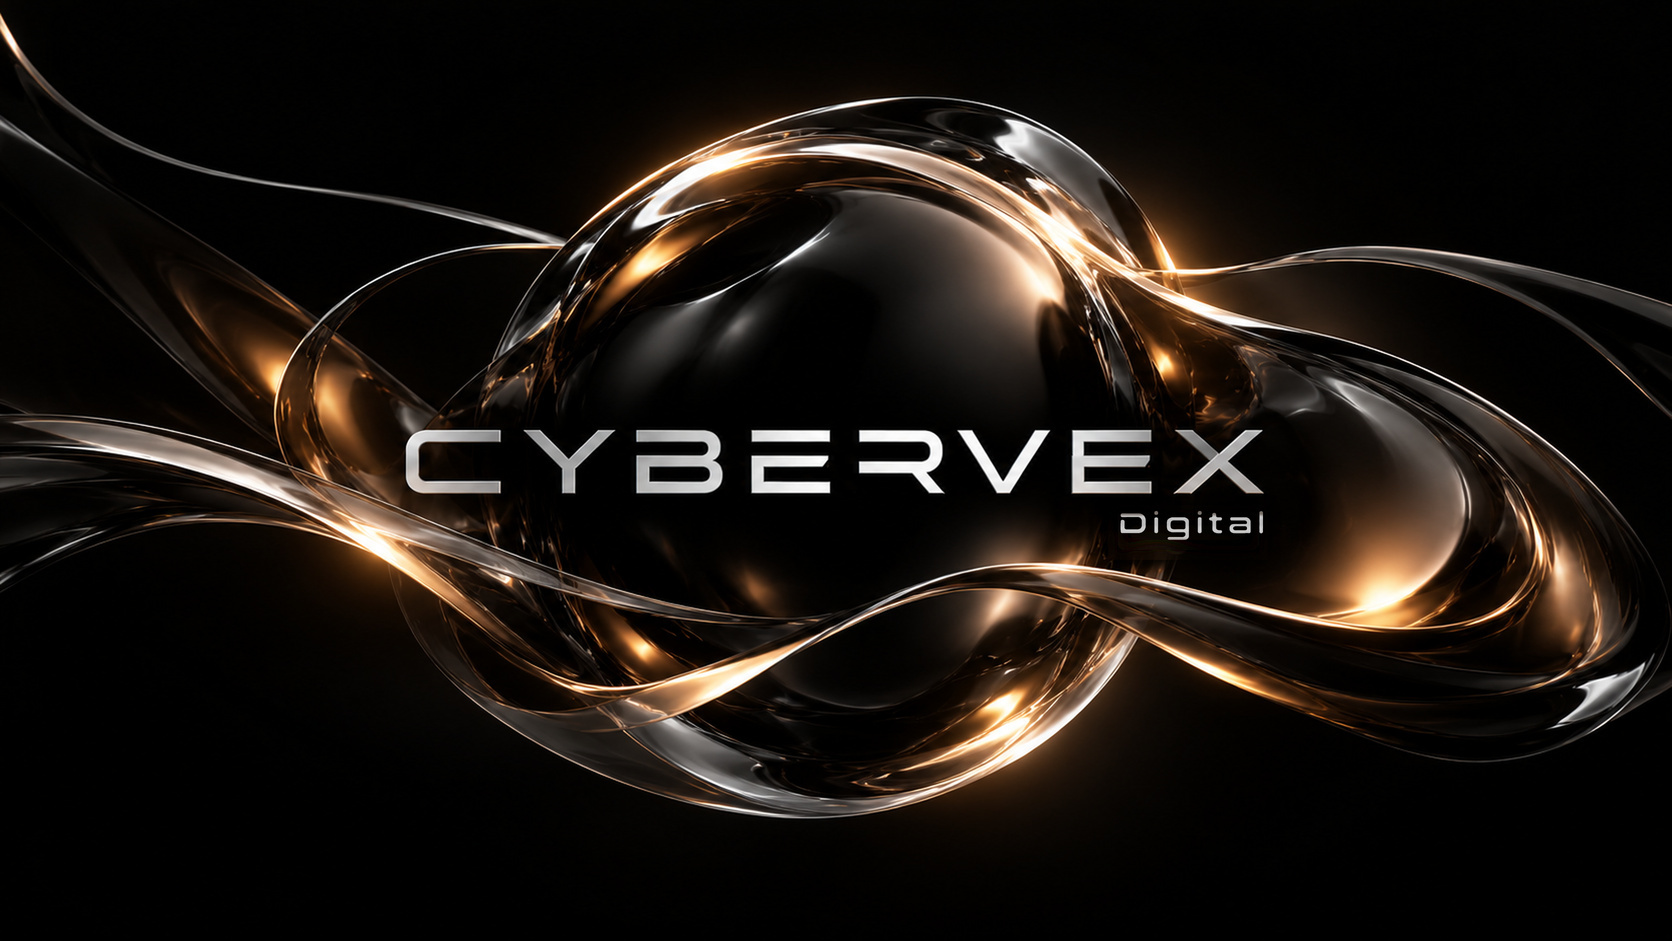
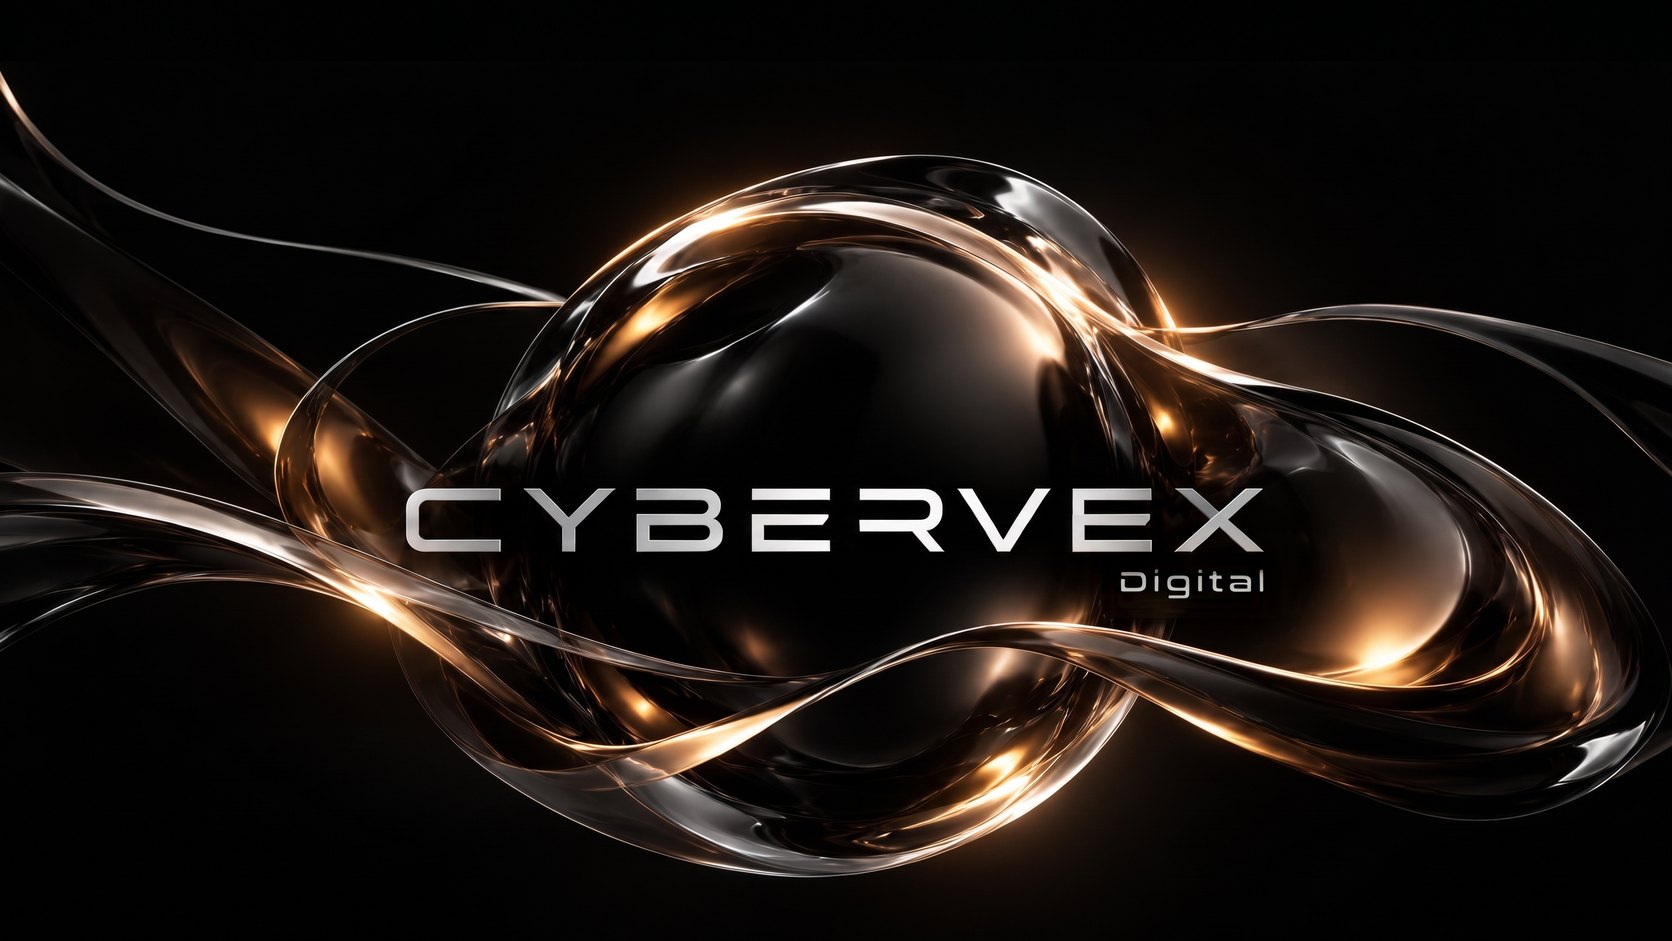
New hero artwork; desktop hero runs behind the navbar with room below

diff --git a/src/App.css b/src/App.css
@@ -561,12 +561,27 @@
 /* Desktops: same height as above, but the art always spans the full width. On wide or short
    screens (where black sides used to show) the image fills the box and is trimmed top and bottom. */
 @media (min-width: 769px) {
+  /* The art starts at the very top, behind the see-through navbar (the box grows upward by the
+     navbar's height), with a little extra room (40px) underneath so its bottom isn't cut */
+  .hero-section--fullscreen {
+    padding-top: 0;
+  }
+
+  .hero-fullscreen-frame {
+    max-height: calc(var(--hero-avail) + var(--nav-height) + 40px);
+  }
+
   .hero-art {
     width: 100cqw;
     aspect-ratio: auto;
-    height: calc(var(--hero-art-w) * 9 / 16);
+    height: calc(var(--hero-art-w) * 9 / 16 + var(--nav-height) + 40px);
     -webkit-mask-image: none;
     mask-image: none;
+  }
+
+  .hero-art .hero-fullscreen-img {
+    height: calc(var(--hero-art-w) * 9 / 16 + var(--nav-height));
+    transform: none;
   }
 }
 
@@ -575,8 +590,8 @@
   height: 100%;
   object-fit: cover;
   display: block;
-  /* Slight zoom into the orb; the art box clips the overflow */
-  transform: scale(1.06);
+  /* Slight zoom into the orb; the art box clips the overflow. Lifted so more of the bottom shows; the top strands still clear the navbar */
+  transform: translateY(-6%) scale(1.06);
 }
 
 

diff --git a/src/components/Hero.jsx b/src/components/Hero.jsx
@@ -10,10 +10,10 @@ export default function Hero() {
       <div className="hero-fullscreen-frame">
         {/* Artwork box: full width 16:9; the frame crops it evenly if it's taller than the screen */}
         <div className="hero-art">
-          {/* Original artwork with the brand "Digital" lettering; @2x is a clean 2x resample for large/HiDPI screens */}
+          {/* Original artwork with the brand "Digital" lettering; @2x is the full-resolution version for large/HiDPI screens */}
           <img
             src="/images/cybervex-hero.jpg"
-            srcSet="/images/cybervex-hero.jpg 1672w, /images/cybervex-hero@2x.jpg 3344w"
+            srcSet="/images/cybervex-hero.jpg 1672w, /images/cybervex-hero@2x.jpg 2752w"
             sizes="100vw"
             alt="Cybervex Digital"
             className="hero-fullscreen-img"
